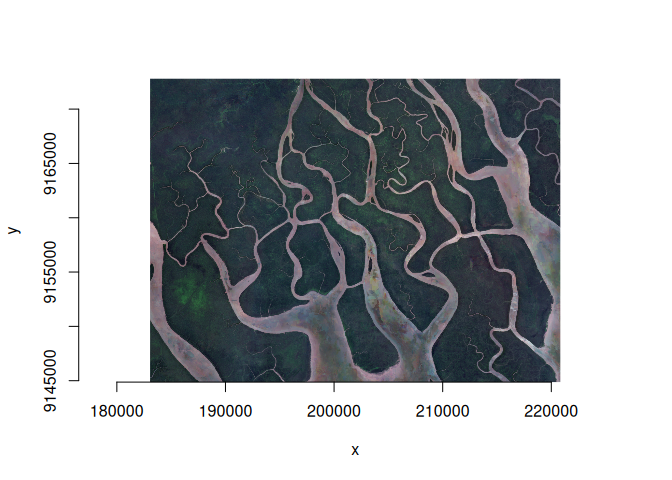
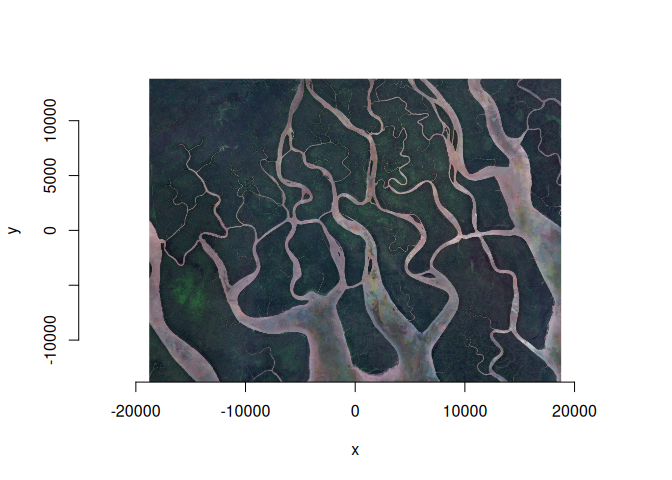
readme update

diff --git a/README.md b/README.md
@@ -1,0 +1,128 @@
+
+<!-- README.md is generated from README.Rmd. Please edit that file -->
+
+# garry
+
+<!-- badges: start -->
+
+<!-- badges: end -->
+
+garry is a lazy, spatial-aware raster engine for R. You describe a whole
+raster computation as a graph and it runs it fast: chunked, distributed
+across processes, with the numeric kernels JIT-compiled to XLA (CPU or
+GPU). It is built for cloud-native earth observation, turning a STAC
+search of remote COGs into an analysis-ready composite without leaving
+R.
+
+**What it is:**
+
+- **Lazy.** Every operation (`lazy_map()`, `focal()`, `reduce_over()`,
+  `mask()`, `align()`) adds a node to a computation graph and returns
+  immediately. Nothing reads or computes until `collect()`.
+- **Spatial-aware.** Arrays carry their CRS, transform and extent.
+  Alignment is explicit: binary ops never silently resample, so a pixel
+  is never quietly moved half a cell.
+- **Fast.** `collect()` plans the graph into chunks, streams reads
+  through a GDAL daemon pool, and runs the fused kernels through
+  [anvl](https://github.com/r-xla/anvl) (XLA). On a three-band annual
+  HLS composite it matches Python’s ODC + dask on the same machine, in
+  idiomatic R.
+- **GDAL-faithful.** IO is
+  [gdalraster](https://cran.r-project.org/package=gdalraster); grid math
+  is [vaster](https://github.com/hypertidy/vaster). Results track what
+  GDAL would give you.
+
+## Installation
+
+You can install the development version of garry from
+[GitHub](https://github.com/) with:
+
+``` r
+# install.packages("pak")
+pak::pak("belian-earth/garry")
+```
+
+## Example
+
+A cloud-masked annual median composite of HLS Sentinel-2 imagery,
+straight from the Microsoft Planetary Computer. The whole pipeline is
+lazy: it reads and computes only at the final `collect()`.
+
+``` r
+library(garry)
+
+# 1. Discover: HLS S30 over an AOI, all of 2023, pre-signed for the PC.
+aoi <- c(144.13, -7.725, 144.47, -7.475)   # lon/lat bounding box
+its <- stac_query(
+  bbox        = aoi,
+  stac_source = "https://planetarycomputer.microsoft.com/api/stac/v1/",
+  collection  = "hls2-s30",
+  start_date  = "2023-01-01", end_date = "2023-12-31"
+) |>
+  rstac::items_sign(rstac::sign_planetary_computer())
+
+src <- stac_sources(its, assets = c("B04", "B03", "B02", "Fmask")) 
+
+# 2. The analysis grid, straight from the AOI: an equal-area (LAEA) grid at 30 m
+#    centred on the bbox. No hand-picked EPSG or projected extent.
+target <- grid_from_bbox(aoi, res = 30)
+
+# 3. A read/compute daemon pool, auto-sized to the machine.
+garry_daemons()
+
+# 4. Build the pipeline. A `LazyDataset` holds every band over time; the verbs
+#    apply across all bands at once. Still nothing has been read or computed.
+composite <- lazy_dataset(
+  src, grid = target,
+  assets     = c("B04", "B03", "B02"), mask_asset = "Fmask",
+  nodata     = c(B04 = -9999, B03 = -9999, B02 = -9999, Fmask = 255)
+) |>
+  mask(from = "Fmask", where = qa_bits(0:3), open = 2, dilate = 3) |>  # clouds/shadows + cleanup
+  reduce_over("median", over = "t")                                    # per-band temporal median
+
+print(composite)
+#> ── <LazyDataset> ───────────────────────────────────────────────────────────────
+#>   bands  B04 B03 B02
+#>   time   55 slices
+#>   grid   1252 x 922 • f32
+#>   crs    Lambert Azimuthal Equal Area
+#>   graph  611 nodes • lazy
+#>   ℹ draw(x) to see the pipeline
+
+draw(composite)
+#> ── <LazyDataset> pipeline ──────────────────────────────────────────────────────
+#>   ◈ source    B04 B03 B02  •  55 slices • 1252×922 f32
+#>   ✕ mask      from Fmask • bits 0–3 • open 2 • dilate 3
+#>   ▸ reduce    median over t
+#>   ─ 611 nodes • crs Lambert Azimuthal Equal Area
+
+draw(composite[["B04"]])
+#> ── <LazyRaster> 1252 x 922 • f32 ───────────────────────────────────────────────
+#> ▸ median  over t
+#> └─ ⬚ stack  along t
+#>    └─ ƒ map  (2 inputs)  ×55
+#>       ├─ ◈ source  1252×922 f32
+#>       └─ ◫ focal  r=3
+#>          └─ ◫ focal  r=2
+#>             └─ ◫ focal  r=2
+#>                └─ ƒ map
+#>                   └─ ◈ source  1252×922 f32
+
+# 5. Execute across the daemons and write the GeoTIFF.
+collect(composite, path = "composite.tif", nodata = -9999, distributed = TRUE)
+
+r <- new(gdalraster::GDALRaster, "composite.tif") 
+gdalraster::plot_raster(r)
+```
+
+<img src="man/figures/README-example-1.png" alt="" width="100%" />
+
+``` r
+r$close()
+```
+
+The same verbs work on a single raster. `lazy_source()` opens one COG or
+a GDAL mosaic; `lazy_map()` / `focal()` / `reduce_over()` build
+map-algebra graphs; `align()` reprojects onto a target grid; `collect()`
+runs it. See `benchmarks/compare.sh` for the back-to-back garry-vs-ODC
+benchmark.